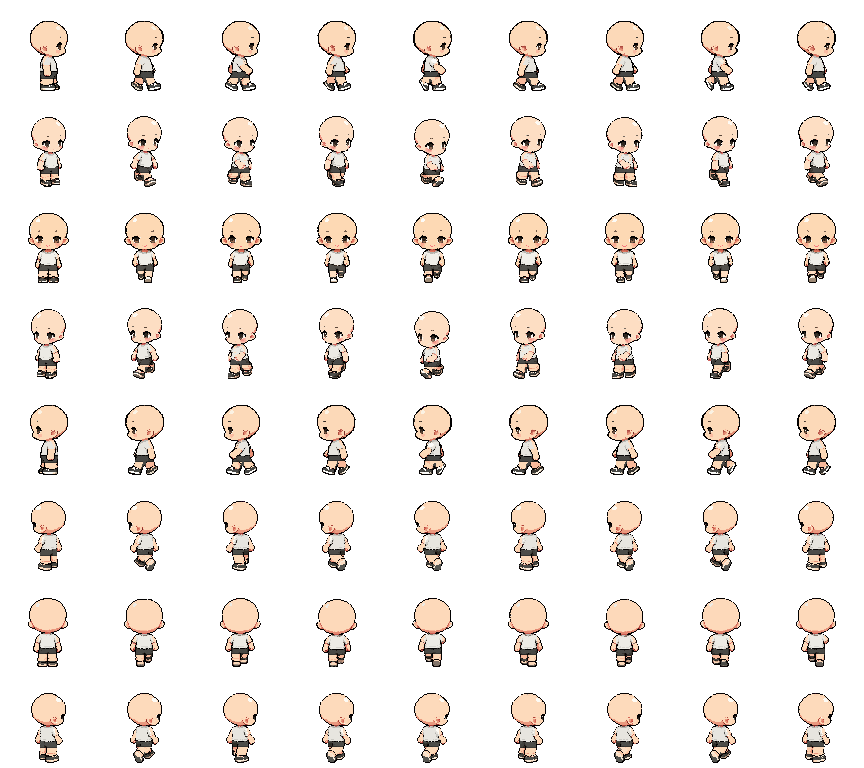
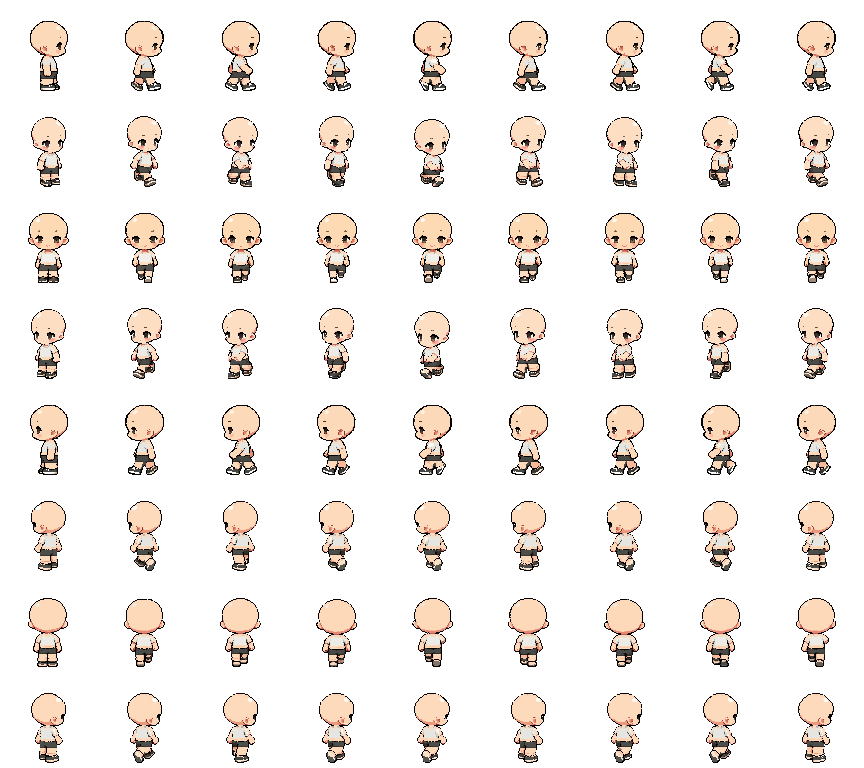
Underwear base: cropped tank with straps (bare shoulders and waist) so crop tops layer cleanly

diff --git a/tools/underwear_base.py b/tools/underwear_base.py
@@ -1,6 +1,6 @@
-"""underwear_base - turn the base walk sheet's T-shirt + trousers into a tank top + boxers.
+"""underwear_base - turn the base walk sheet's T-shirt + trousers into a cropped tank top + boxers.
 
-  python tools/underwear_base.py godot/assets/characters/walk_v62.png out.png [--cut 6] [--slim]
+  python tools/underwear_base.py godot/assets/characters/walk_v62.png out.png [--cut 6] [--crop 3] [--slim]
 
 Works on the finished game sheet (pixel-clean, ~24 colours), so heads and poses stay exactly
 where they were and the hair layers still fit. Per cell:
@@ -22,6 +22,8 @@ CELL = 96
 SKIN = [(253, 222, 195), (252, 217, 184), (251, 200, 168), (248, 185, 155), (234, 151, 126)]
 OUTLINE = (24, 13, 12)
 SHOE = 6
+SHOULDER = 3   # rows at the top of the shirt where only the straps stay
+PROFILE_ROWS = {0, 4}   # sheet rows drawn in profile: one strap, over the shoulder
 
 
 def classify(px):
@@ -50,7 +52,7 @@ def tank(c):
     return (int(min(255, v + 2)), int(min(255, v)), int(min(255, v - 6)))
 
 
-def convert_cell(cell, cut, slim):
+def convert_cell(cell, cut, slim, crop, profile=False):
     px = cell.copy()
     tee, pants, skin = classify(px)
     ys = np.nonzero(tee.sum(1) >= 4)[0]           # rows of real shirt (skips stray beige in the face)
@@ -83,6 +85,31 @@ def convert_cell(cell, cut, slim):
             if skin[run_end:run_end + 4, x].any():
                 px[y, x, :3] = skin_for(80 if px[y, x, :3].mean() > 200 else 65)
                 tee[y, x] = False
+
+    # tank cut. Top rows: only the straps stay; shoulders, the scoop neck and the old collar
+    # become skin (two straps facing front/back, one strap over the shoulder in profile).
+    # Bottom rows: cropped hem, so the waist is skin and a crop top drawn over the base never
+    # shows the tank underneath.
+    ref = np.nonzero(tee[min(t0 + SHOULDER, t1)])[0]
+    if len(ref):
+        l, r = ref[0], ref[-1]
+        w = r - l + 1
+        for y in range(t0 - 1, t0 + SHOULDER):
+            for x in range(l, r + 1):
+                if not px[y, x, 3] or px[y, x, :3].max() < 100 or (skin[y, x] and not tee[y, x]):
+                    continue
+                d = min(x - l, r - x)
+                strap = abs(d - w / 2) <= 1 if profile else w * 0.2 <= d <= w * 0.34
+                if strap:
+                    px[y, x, :3] = (200, 190, 175) if not tee[y, x] else px[y, x, :3]
+                    tee[y, x] = True
+                else:
+                    px[y, x, :3] = skin_for(80 if px[y, x, :3].mean() > 215 else 72)
+                    tee[y, x] = False
+    for y in range(t1 - crop + 1, t1 + 3):
+        for x in np.nonzero(tee[y])[0]:
+            px[y, x, :3] = skin_for(80 if px[y, x, :3].mean() > 215 else 72 if px[y, x, :3].mean() > 195 else 65)
+            tee[y, x] = False
     for y, x in zip(*np.nonzero(tee)):
         px[y, x, :3] = tank(tuple(int(v) for v in px[y, x, :3]))
 
@@ -116,6 +143,7 @@ def main():
     ap.add_argument('src')
     ap.add_argument('dst')
     ap.add_argument('--cut', type=int, default=6, help='boxer length in px below the shirt hem')
+    ap.add_argument('--crop', type=int, default=3, help='rows of bare waist above the boxers (0 = full-length tank)')
     ap.add_argument('--slim', action='store_true')
     a = ap.parse_args()
     im = np.array(Image.open(a.src).convert('RGBA'))
@@ -123,7 +151,7 @@ def main():
     for r in range(im.shape[0] // CELL):
         for c in range(im.shape[1] // CELL):
             sl = (slice(r * CELL, (r + 1) * CELL), slice(c * CELL, (c + 1) * CELL))
-            out[sl] = convert_cell(im[sl], a.cut, a.slim)
+            out[sl] = convert_cell(im[sl], a.cut, a.slim, a.crop, r in PROFILE_ROWS)
     Image.fromarray(out).save(a.dst)
     print('wrote', a.dst)
 
